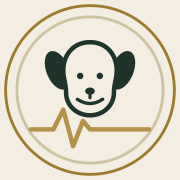
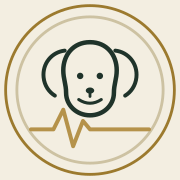
로고를 얇은 선 스타일로 단순화 (귀·코·입 유지, 채움 제거)

diff --git a/index.html b/index.html
@@ -28,17 +28,17 @@
       <svg viewBox="0 0 64 66" role="img" aria-label="시니어독 건강백서 로고">
         <circle cx="32" cy="33" r="30" fill="none" stroke="currentColor" stroke-width="1" style="color:var(--brass)"/>
         <circle cx="32" cy="33" r="26" fill="none" stroke="currentColor" stroke-width="1" style="color:var(--rule)"/>
-        <ellipse cx="20.5" cy="26" rx="4" ry="7.2" fill="var(--pine-strong)" transform="rotate(-22 20.5 26)"/>
-        <ellipse cx="43.5" cy="26" rx="4" ry="7.2" fill="var(--pine-strong)" transform="rotate(22 43.5 26)"/>
+        <path d="M23 19c-4.5 0.5-8 4.5-7.5 9.5 0.3 3 2 5.3 4 6.5" fill="none" stroke="currentColor" stroke-width="1.4" stroke-linecap="round" style="color:var(--pine-strong)"/>
+        <path d="M41 19c4.5 0.5 8 4.5 7.5 9.5-0.3 3-2 5.3-4 6.5" fill="none" stroke="currentColor" stroke-width="1.4" stroke-linecap="round" style="color:var(--pine-strong)"/>
         <path d="M32 16c-6 0-9.5 4.6-9.5 10 0 3 1 5 1 8 0 4.5 3.8 8 8.5 8s8.5-3.5 8.5-8c0-3 1-5 1-8 0-5.4-3.5-10-9.5-10z"
               fill="var(--paper)" stroke="currentColor" stroke-width="1.6" style="color:var(--pine-strong)"/>
         <circle cx="28.5" cy="28" r="1.15" fill="var(--pine-strong)"/>
         <circle cx="35.5" cy="28" r="1.15" fill="var(--pine-strong)"/>
-        <ellipse cx="32" cy="33.4" rx="1.7" ry="1.3" fill="var(--pine-strong)"/>
-        <path d="M32 34.7 L32 35.8" fill="none" stroke="currentColor" stroke-width="1.1" stroke-linecap="round" style="color:var(--pine-strong)"/>
-        <path d="M27.5 36.3 Q32 39.3 36.5 36.3" fill="none" stroke="currentColor" stroke-width="1.2" stroke-linecap="round" stroke-linejoin="round" style="color:var(--pine-strong)"/>
+        <ellipse cx="32" cy="33.2" rx="1.5" ry="1.1" fill="var(--pine-strong)"/>
+        <path d="M32 34.3 L32 35.3" fill="none" stroke="currentColor" stroke-width="1" stroke-linecap="round" style="color:var(--pine-strong)"/>
+        <path d="M28 36.4 Q32 39 36 36.4" fill="none" stroke="currentColor" stroke-width="1.1" stroke-linecap="round" style="color:var(--pine-strong)"/>
         <path d="M11 47 L19 47 L22.5 40 L26 53 L29.5 44 L32 47 L53 47"
-              fill="none" stroke="currentColor" stroke-width="1.6" stroke-linejoin="round" stroke-linecap="round" style="color:var(--brass-bright)"/>
+              fill="none" stroke="currentColor" stroke-width="1.4" stroke-linejoin="round" stroke-linecap="round" style="color:var(--brass-bright)"/>
       </svg>
       <div class="word">시니어독 <b>건강백서</b></div>
     </div>

diff --git a/cost.html b/cost.html
@@ -26,17 +26,17 @@
       <svg viewBox="0 0 64 66" role="img" aria-label="시니어독 건강백서 로고">
         <circle cx="32" cy="33" r="30" fill="none" stroke="currentColor" stroke-width="1" style="color:var(--brass)"/>
         <circle cx="32" cy="33" r="26" fill="none" stroke="currentColor" stroke-width="1" style="color:var(--rule)"/>
-        <ellipse cx="20.5" cy="26" rx="4" ry="7.2" fill="var(--pine-strong)" transform="rotate(-22 20.5 26)"/>
-        <ellipse cx="43.5" cy="26" rx="4" ry="7.2" fill="var(--pine-strong)" transform="rotate(22 43.5 26)"/>
+        <path d="M23 19c-4.5 0.5-8 4.5-7.5 9.5 0.3 3 2 5.3 4 6.5" fill="none" stroke="currentColor" stroke-width="1.4" stroke-linecap="round" style="color:var(--pine-strong)"/>
+        <path d="M41 19c4.5 0.5 8 4.5 7.5 9.5-0.3 3-2 5.3-4 6.5" fill="none" stroke="currentColor" stroke-width="1.4" stroke-linecap="round" style="color:var(--pine-strong)"/>
         <path d="M32 16c-6 0-9.5 4.6-9.5 10 0 3 1 5 1 8 0 4.5 3.8 8 8.5 8s8.5-3.5 8.5-8c0-3 1-5 1-8 0-5.4-3.5-10-9.5-10z"
               fill="var(--paper)" stroke="currentColor" stroke-width="1.6" style="color:var(--pine-strong)"/>
         <circle cx="28.5" cy="28" r="1.15" fill="var(--pine-strong)"/>
         <circle cx="35.5" cy="28" r="1.15" fill="var(--pine-strong)"/>
-        <ellipse cx="32" cy="33.4" rx="1.7" ry="1.3" fill="var(--pine-strong)"/>
-        <path d="M32 34.7 L32 35.8" fill="none" stroke="currentColor" stroke-width="1.1" stroke-linecap="round" style="color:var(--pine-strong)"/>
-        <path d="M27.5 36.3 Q32 39.3 36.5 36.3" fill="none" stroke="currentColor" stroke-width="1.2" stroke-linecap="round" stroke-linejoin="round" style="color:var(--pine-strong)"/>
+        <ellipse cx="32" cy="33.2" rx="1.5" ry="1.1" fill="var(--pine-strong)"/>
+        <path d="M32 34.3 L32 35.3" fill="none" stroke="currentColor" stroke-width="1" stroke-linecap="round" style="color:var(--pine-strong)"/>
+        <path d="M28 36.4 Q32 39 36 36.4" fill="none" stroke="currentColor" stroke-width="1.1" stroke-linecap="round" style="color:var(--pine-strong)"/>
         <path d="M11 47 L19 47 L22.5 40 L26 53 L29.5 44 L32 47 L53 47"
-              fill="none" stroke="currentColor" stroke-width="1.6" stroke-linejoin="round" stroke-linecap="round" style="color:var(--brass-bright)"/>
+              fill="none" stroke="currentColor" stroke-width="1.4" stroke-linejoin="round" stroke-linecap="round" style="color:var(--brass-bright)"/>
       </svg>
       <div class="word">시니어독 <b>건강백서</b></div>
     </a>

diff --git a/gear.html b/gear.html
@@ -26,17 +26,17 @@
       <svg viewBox="0 0 64 66" role="img" aria-label="시니어독 건강백서 로고">
         <circle cx="32" cy="33" r="30" fill="none" stroke="currentColor" stroke-width="1" style="color:var(--brass)"/>
         <circle cx="32" cy="33" r="26" fill="none" stroke="currentColor" stroke-width="1" style="color:var(--rule)"/>
-        <ellipse cx="20.5" cy="26" rx="4" ry="7.2" fill="var(--pine-strong)" transform="rotate(-22 20.5 26)"/>
-        <ellipse cx="43.5" cy="26" rx="4" ry="7.2" fill="var(--pine-strong)" transform="rotate(22 43.5 26)"/>
+        <path d="M23 19c-4.5 0.5-8 4.5-7.5 9.5 0.3 3 2 5.3 4 6.5" fill="none" stroke="currentColor" stroke-width="1.4" stroke-linecap="round" style="color:var(--pine-strong)"/>
+        <path d="M41 19c4.5 0.5 8 4.5 7.5 9.5-0.3 3-2 5.3-4 6.5" fill="none" stroke="currentColor" stroke-width="1.4" stroke-linecap="round" style="color:var(--pine-strong)"/>
         <path d="M32 16c-6 0-9.5 4.6-9.5 10 0 3 1 5 1 8 0 4.5 3.8 8 8.5 8s8.5-3.5 8.5-8c0-3 1-5 1-8 0-5.4-3.5-10-9.5-10z"
               fill="var(--paper)" stroke="currentColor" stroke-width="1.6" style="color:var(--pine-strong)"/>
         <circle cx="28.5" cy="28" r="1.15" fill="var(--pine-strong)"/>
         <circle cx="35.5" cy="28" r="1.15" fill="var(--pine-strong)"/>
-        <ellipse cx="32" cy="33.4" rx="1.7" ry="1.3" fill="var(--pine-strong)"/>
-        <path d="M32 34.7 L32 35.8" fill="none" stroke="currentColor" stroke-width="1.1" stroke-linecap="round" style="color:var(--pine-strong)"/>
-        <path d="M27.5 36.3 Q32 39.3 36.5 36.3" fill="none" stroke="currentColor" stroke-width="1.2" stroke-linecap="round" stroke-linejoin="round" style="color:var(--pine-strong)"/>
+        <ellipse cx="32" cy="33.2" rx="1.5" ry="1.1" fill="var(--pine-strong)"/>
+        <path d="M32 34.3 L32 35.3" fill="none" stroke="currentColor" stroke-width="1" stroke-linecap="round" style="color:var(--pine-strong)"/>
+        <path d="M28 36.4 Q32 39 36 36.4" fill="none" stroke="currentColor" stroke-width="1.1" stroke-linecap="round" style="color:var(--pine-strong)"/>
         <path d="M11 47 L19 47 L22.5 40 L26 53 L29.5 44 L32 47 L53 47"
-              fill="none" stroke="currentColor" stroke-width="1.6" stroke-linejoin="round" stroke-linecap="round" style="color:var(--brass-bright)"/>
+              fill="none" stroke="currentColor" stroke-width="1.4" stroke-linejoin="round" stroke-linecap="round" style="color:var(--brass-bright)"/>
       </svg>
       <div class="word">시니어독 <b>건강백서</b></div>
     </a>

diff --git a/health.html b/health.html
@@ -26,17 +26,17 @@
       <svg viewBox="0 0 64 66" role="img" aria-label="시니어독 건강백서 로고">
         <circle cx="32" cy="33" r="30" fill="none" stroke="currentColor" stroke-width="1" style="color:var(--brass)"/>
         <circle cx="32" cy="33" r="26" fill="none" stroke="currentColor" stroke-width="1" style="color:var(--rule)"/>
-        <ellipse cx="20.5" cy="26" rx="4" ry="7.2" fill="var(--pine-strong)" transform="rotate(-22 20.5 26)"/>
-        <ellipse cx="43.5" cy="26" rx="4" ry="7.2" fill="var(--pine-strong)" transform="rotate(22 43.5 26)"/>
+        <path d="M23 19c-4.5 0.5-8 4.5-7.5 9.5 0.3 3 2 5.3 4 6.5" fill="none" stroke="currentColor" stroke-width="1.4" stroke-linecap="round" style="color:var(--pine-strong)"/>
+        <path d="M41 19c4.5 0.5 8 4.5 7.5 9.5-0.3 3-2 5.3-4 6.5" fill="none" stroke="currentColor" stroke-width="1.4" stroke-linecap="round" style="color:var(--pine-strong)"/>
         <path d="M32 16c-6 0-9.5 4.6-9.5 10 0 3 1 5 1 8 0 4.5 3.8 8 8.5 8s8.5-3.5 8.5-8c0-3 1-5 1-8 0-5.4-3.5-10-9.5-10z"
               fill="var(--paper)" stroke="currentColor" stroke-width="1.6" style="color:var(--pine-strong)"/>
         <circle cx="28.5" cy="28" r="1.15" fill="var(--pine-strong)"/>
         <circle cx="35.5" cy="28" r="1.15" fill="var(--pine-strong)"/>
-        <ellipse cx="32" cy="33.4" rx="1.7" ry="1.3" fill="var(--pine-strong)"/>
-        <path d="M32 34.7 L32 35.8" fill="none" stroke="currentColor" stroke-width="1.1" stroke-linecap="round" style="color:var(--pine-strong)"/>
-        <path d="M27.5 36.3 Q32 39.3 36.5 36.3" fill="none" stroke="currentColor" stroke-width="1.2" stroke-linecap="round" stroke-linejoin="round" style="color:var(--pine-strong)"/>
+        <ellipse cx="32" cy="33.2" rx="1.5" ry="1.1" fill="var(--pine-strong)"/>
+        <path d="M32 34.3 L32 35.3" fill="none" stroke="currentColor" stroke-width="1" stroke-linecap="round" style="color:var(--pine-strong)"/>
+        <path d="M28 36.4 Q32 39 36 36.4" fill="none" stroke="currentColor" stroke-width="1.1" stroke-linecap="round" style="color:var(--pine-strong)"/>
         <path d="M11 47 L19 47 L22.5 40 L26 53 L29.5 44 L32 47 L53 47"
-              fill="none" stroke="currentColor" stroke-width="1.6" stroke-linejoin="round" stroke-linecap="round" style="color:var(--brass-bright)"/>
+              fill="none" stroke="currentColor" stroke-width="1.4" stroke-linejoin="round" stroke-linecap="round" style="color:var(--brass-bright)"/>
       </svg>
       <div class="word">시니어독 <b>건강백서</b></div>
     </a>

diff --git a/log.html b/log.html
@@ -26,17 +26,17 @@
       <svg viewBox="0 0 64 66" role="img" aria-label="시니어독 건강백서 로고">
         <circle cx="32" cy="33" r="30" fill="none" stroke="currentColor" stroke-width="1" style="color:var(--brass)"/>
         <circle cx="32" cy="33" r="26" fill="none" stroke="currentColor" stroke-width="1" style="color:var(--rule)"/>
-        <ellipse cx="20.5" cy="26" rx="4" ry="7.2" fill="var(--pine-strong)" transform="rotate(-22 20.5 26)"/>
-        <ellipse cx="43.5" cy="26" rx="4" ry="7.2" fill="var(--pine-strong)" transform="rotate(22 43.5 26)"/>
+        <path d="M23 19c-4.5 0.5-8 4.5-7.5 9.5 0.3 3 2 5.3 4 6.5" fill="none" stroke="currentColor" stroke-width="1.4" stroke-linecap="round" style="color:var(--pine-strong)"/>
+        <path d="M41 19c4.5 0.5 8 4.5 7.5 9.5-0.3 3-2 5.3-4 6.5" fill="none" stroke="currentColor" stroke-width="1.4" stroke-linecap="round" style="color:var(--pine-strong)"/>
         <path d="M32 16c-6 0-9.5 4.6-9.5 10 0 3 1 5 1 8 0 4.5 3.8 8 8.5 8s8.5-3.5 8.5-8c0-3 1-5 1-8 0-5.4-3.5-10-9.5-10z"
               fill="var(--paper)" stroke="currentColor" stroke-width="1.6" style="color:var(--pine-strong)"/>
         <circle cx="28.5" cy="28" r="1.15" fill="var(--pine-strong)"/>
         <circle cx="35.5" cy="28" r="1.15" fill="var(--pine-strong)"/>
-        <ellipse cx="32" cy="33.4" rx="1.7" ry="1.3" fill="var(--pine-strong)"/>
-        <path d="M32 34.7 L32 35.8" fill="none" stroke="currentColor" stroke-width="1.1" stroke-linecap="round" style="color:var(--pine-strong)"/>
-        <path d="M27.5 36.3 Q32 39.3 36.5 36.3" fill="none" stroke="currentColor" stroke-width="1.2" stroke-linecap="round" stroke-linejoin="round" style="color:var(--pine-strong)"/>
+        <ellipse cx="32" cy="33.2" rx="1.5" ry="1.1" fill="var(--pine-strong)"/>
+        <path d="M32 34.3 L32 35.3" fill="none" stroke="currentColor" stroke-width="1" stroke-linecap="round" style="color:var(--pine-strong)"/>
+        <path d="M28 36.4 Q32 39 36 36.4" fill="none" stroke="currentColor" stroke-width="1.1" stroke-linecap="round" style="color:var(--pine-strong)"/>
         <path d="M11 47 L19 47 L22.5 40 L26 53 L29.5 44 L32 47 L53 47"
-              fill="none" stroke="currentColor" stroke-width="1.6" stroke-linejoin="round" stroke-linecap="round" style="color:var(--brass-bright)"/>
+              fill="none" stroke="currentColor" stroke-width="1.4" stroke-linejoin="round" stroke-linecap="round" style="color:var(--brass-bright)"/>
       </svg>
       <div class="word">시니어독 <b>건강백서</b></div>
     </a>

diff --git a/nutrition.html b/nutrition.html
@@ -26,17 +26,17 @@
       <svg viewBox="0 0 64 66" role="img" aria-label="시니어독 건강백서 로고">
         <circle cx="32" cy="33" r="30" fill="none" stroke="currentColor" stroke-width="1" style="color:var(--brass)"/>
         <circle cx="32" cy="33" r="26" fill="none" stroke="currentColor" stroke-width="1" style="color:var(--rule)"/>
-        <ellipse cx="20.5" cy="26" rx="4" ry="7.2" fill="var(--pine-strong)" transform="rotate(-22 20.5 26)"/>
-        <ellipse cx="43.5" cy="26" rx="4" ry="7.2" fill="var(--pine-strong)" transform="rotate(22 43.5 26)"/>
+        <path d="M23 19c-4.5 0.5-8 4.5-7.5 9.5 0.3 3 2 5.3 4 6.5" fill="none" stroke="currentColor" stroke-width="1.4" stroke-linecap="round" style="color:var(--pine-strong)"/>
+        <path d="M41 19c4.5 0.5 8 4.5 7.5 9.5-0.3 3-2 5.3-4 6.5" fill="none" stroke="currentColor" stroke-width="1.4" stroke-linecap="round" style="color:var(--pine-strong)"/>
         <path d="M32 16c-6 0-9.5 4.6-9.5 10 0 3 1 5 1 8 0 4.5 3.8 8 8.5 8s8.5-3.5 8.5-8c0-3 1-5 1-8 0-5.4-3.5-10-9.5-10z"
               fill="var(--paper)" stroke="currentColor" stroke-width="1.6" style="color:var(--pine-strong)"/>
         <circle cx="28.5" cy="28" r="1.15" fill="var(--pine-strong)"/>
         <circle cx="35.5" cy="28" r="1.15" fill="var(--pine-strong)"/>
-        <ellipse cx="32" cy="33.4" rx="1.7" ry="1.3" fill="var(--pine-strong)"/>
-        <path d="M32 34.7 L32 35.8" fill="none" stroke="currentColor" stroke-width="1.1" stroke-linecap="round" style="color:var(--pine-strong)"/>
-        <path d="M27.5 36.3 Q32 39.3 36.5 36.3" fill="none" stroke="currentColor" stroke-width="1.2" stroke-linecap="round" stroke-linejoin="round" style="color:var(--pine-strong)"/>
+        <ellipse cx="32" cy="33.2" rx="1.5" ry="1.1" fill="var(--pine-strong)"/>
+        <path d="M32 34.3 L32 35.3" fill="none" stroke="currentColor" stroke-width="1" stroke-linecap="round" style="color:var(--pine-strong)"/>
+        <path d="M28 36.4 Q32 39 36 36.4" fill="none" stroke="currentColor" stroke-width="1.1" stroke-linecap="round" style="color:var(--pine-strong)"/>
         <path d="M11 47 L19 47 L22.5 40 L26 53 L29.5 44 L32 47 L53 47"
-              fill="none" stroke="currentColor" stroke-width="1.6" stroke-linejoin="round" stroke-linecap="round" style="color:var(--brass-bright)"/>
+              fill="none" stroke="currentColor" stroke-width="1.4" stroke-linejoin="round" stroke-linecap="round" style="color:var(--brass-bright)"/>
       </svg>
       <div class="word">시니어독 <b>건강백서</b></div>
     </a>

diff --git a/posts/01-소형견-노령견-기준-나이표.html b/posts/01-소형견-노령견-기준-나이표.html
@@ -44,17 +44,17 @@
       <svg viewBox="0 0 64 66" role="img" aria-label="시니어독 건강백서 로고">
         <circle cx="32" cy="33" r="30" fill="none" stroke="currentColor" stroke-width="1" style="color:var(--brass)"/>
         <circle cx="32" cy="33" r="26" fill="none" stroke="currentColor" stroke-width="1" style="color:var(--rule)"/>
-        <ellipse cx="20.5" cy="26" rx="4" ry="7.2" fill="var(--pine-strong)" transform="rotate(-22 20.5 26)"/>
-        <ellipse cx="43.5" cy="26" rx="4" ry="7.2" fill="var(--pine-strong)" transform="rotate(22 43.5 26)"/>
+        <path d="M23 19c-4.5 0.5-8 4.5-7.5 9.5 0.3 3 2 5.3 4 6.5" fill="none" stroke="currentColor" stroke-width="1.4" stroke-linecap="round" style="color:var(--pine-strong)"/>
+        <path d="M41 19c4.5 0.5 8 4.5 7.5 9.5-0.3 3-2 5.3-4 6.5" fill="none" stroke="currentColor" stroke-width="1.4" stroke-linecap="round" style="color:var(--pine-strong)"/>
         <path d="M32 16c-6 0-9.5 4.6-9.5 10 0 3 1 5 1 8 0 4.5 3.8 8 8.5 8s8.5-3.5 8.5-8c0-3 1-5 1-8 0-5.4-3.5-10-9.5-10z"
               fill="var(--paper)" stroke="currentColor" stroke-width="1.6" style="color:var(--pine-strong)"/>
         <circle cx="28.5" cy="28" r="1.15" fill="var(--pine-strong)"/>
         <circle cx="35.5" cy="28" r="1.15" fill="var(--pine-strong)"/>
-        <ellipse cx="32" cy="33.4" rx="1.7" ry="1.3" fill="var(--pine-strong)"/>
-        <path d="M32 34.7 L32 35.8" fill="none" stroke="currentColor" stroke-width="1.1" stroke-linecap="round" style="color:var(--pine-strong)"/>
-        <path d="M27.5 36.3 Q32 39.3 36.5 36.3" fill="none" stroke="currentColor" stroke-width="1.2" stroke-linecap="round" stroke-linejoin="round" style="color:var(--pine-strong)"/>
+        <ellipse cx="32" cy="33.2" rx="1.5" ry="1.1" fill="var(--pine-strong)"/>
+        <path d="M32 34.3 L32 35.3" fill="none" stroke="currentColor" stroke-width="1" stroke-linecap="round" style="color:var(--pine-strong)"/>
+        <path d="M28 36.4 Q32 39 36 36.4" fill="none" stroke="currentColor" stroke-width="1.1" stroke-linecap="round" style="color:var(--pine-strong)"/>
         <path d="M11 47 L19 47 L22.5 40 L26 53 L29.5 44 L32 47 L53 47"
-              fill="none" stroke="currentColor" stroke-width="1.6" stroke-linejoin="round" stroke-linecap="round" style="color:var(--brass-bright)"/>
+              fill="none" stroke="currentColor" stroke-width="1.4" stroke-linejoin="round" stroke-linecap="round" style="color:var(--brass-bright)"/>
       </svg>
       <div class="word">시니어독 <b>건강백서</b></div>
     </a>

diff --git a/posts/02-노령견-건강검진-주기-항목.html b/posts/02-노령견-건강검진-주기-항목.html
@@ -44,17 +44,17 @@
       <svg viewBox="0 0 64 66" role="img" aria-label="시니어독 건강백서 로고">
         <circle cx="32" cy="33" r="30" fill="none" stroke="currentColor" stroke-width="1" style="color:var(--brass)"/>
         <circle cx="32" cy="33" r="26" fill="none" stroke="currentColor" stroke-width="1" style="color:var(--rule)"/>
-        <ellipse cx="20.5" cy="26" rx="4" ry="7.2" fill="var(--pine-strong)" transform="rotate(-22 20.5 26)"/>
-        <ellipse cx="43.5" cy="26" rx="4" ry="7.2" fill="var(--pine-strong)" transform="rotate(22 43.5 26)"/>
+        <path d="M23 19c-4.5 0.5-8 4.5-7.5 9.5 0.3 3 2 5.3 4 6.5" fill="none" stroke="currentColor" stroke-width="1.4" stroke-linecap="round" style="color:var(--pine-strong)"/>
+        <path d="M41 19c4.5 0.5 8 4.5 7.5 9.5-0.3 3-2 5.3-4 6.5" fill="none" stroke="currentColor" stroke-width="1.4" stroke-linecap="round" style="color:var(--pine-strong)"/>
         <path d="M32 16c-6 0-9.5 4.6-9.5 10 0 3 1 5 1 8 0 4.5 3.8 8 8.5 8s8.5-3.5 8.5-8c0-3 1-5 1-8 0-5.4-3.5-10-9.5-10z"
               fill="var(--paper)" stroke="currentColor" stroke-width="1.6" style="color:var(--pine-strong)"/>
         <circle cx="28.5" cy="28" r="1.15" fill="var(--pine-strong)"/>
         <circle cx="35.5" cy="28" r="1.15" fill="var(--pine-strong)"/>
-        <ellipse cx="32" cy="33.4" rx="1.7" ry="1.3" fill="var(--pine-strong)"/>
-        <path d="M32 34.7 L32 35.8" fill="none" stroke="currentColor" stroke-width="1.1" stroke-linecap="round" style="color:var(--pine-strong)"/>
-        <path d="M27.5 36.3 Q32 39.3 36.5 36.3" fill="none" stroke="currentColor" stroke-width="1.2" stroke-linecap="round" stroke-linejoin="round" style="color:var(--pine-strong)"/>
+        <ellipse cx="32" cy="33.2" rx="1.5" ry="1.1" fill="var(--pine-strong)"/>
+        <path d="M32 34.3 L32 35.3" fill="none" stroke="currentColor" stroke-width="1" stroke-linecap="round" style="color:var(--pine-strong)"/>
+        <path d="M28 36.4 Q32 39 36 36.4" fill="none" stroke="currentColor" stroke-width="1.1" stroke-linecap="round" style="color:var(--pine-strong)"/>
         <path d="M11 47 L19 47 L22.5 40 L26 53 L29.5 44 L32 47 L53 47"
-              fill="none" stroke="currentColor" stroke-width="1.6" stroke-linejoin="round" stroke-linecap="round" style="color:var(--brass-bright)"/>
+              fill="none" stroke="currentColor" stroke-width="1.4" stroke-linejoin="round" stroke-linecap="round" style="color:var(--brass-bright)"/>
       </svg>
       <div class="word">시니어독 <b>건강백서</b></div>
     </a>

diff --git a/posts/03-노령견-계단-미끄럼방지-용품-비교.html b/posts/03-노령견-계단-미끄럼방지-용품-비교.html
@@ -44,17 +44,17 @@
       <svg viewBox="0 0 64 66" role="img" aria-label="시니어독 건강백서 로고">
         <circle cx="32" cy="33" r="30" fill="none" stroke="currentColor" stroke-width="1" style="color:var(--brass)"/>
         <circle cx="32" cy="33" r="26" fill="none" stroke="currentColor" stroke-width="1" style="color:var(--rule)"/>
-        <ellipse cx="20.5" cy="26" rx="4" ry="7.2" fill="var(--pine-strong)" transform="rotate(-22 20.5 26)"/>
-        <ellipse cx="43.5" cy="26" rx="4" ry="7.2" fill="var(--pine-strong)" transform="rotate(22 43.5 26)"/>
+        <path d="M23 19c-4.5 0.5-8 4.5-7.5 9.5 0.3 3 2 5.3 4 6.5" fill="none" stroke="currentColor" stroke-width="1.4" stroke-linecap="round" style="color:var(--pine-strong)"/>
+        <path d="M41 19c4.5 0.5 8 4.5 7.5 9.5-0.3 3-2 5.3-4 6.5" fill="none" stroke="currentColor" stroke-width="1.4" stroke-linecap="round" style="color:var(--pine-strong)"/>
         <path d="M32 16c-6 0-9.5 4.6-9.5 10 0 3 1 5 1 8 0 4.5 3.8 8 8.5 8s8.5-3.5 8.5-8c0-3 1-5 1-8 0-5.4-3.5-10-9.5-10z"
               fill="var(--paper)" stroke="currentColor" stroke-width="1.6" style="color:var(--pine-strong)"/>
         <circle cx="28.5" cy="28" r="1.15" fill="var(--pine-strong)"/>
         <circle cx="35.5" cy="28" r="1.15" fill="var(--pine-strong)"/>
-        <ellipse cx="32" cy="33.4" rx="1.7" ry="1.3" fill="var(--pine-strong)"/>
-        <path d="M32 34.7 L32 35.8" fill="none" stroke="currentColor" stroke-width="1.1" stroke-linecap="round" style="color:var(--pine-strong)"/>
-        <path d="M27.5 36.3 Q32 39.3 36.5 36.3" fill="none" stroke="currentColor" stroke-width="1.2" stroke-linecap="round" stroke-linejoin="round" style="color:var(--pine-strong)"/>
+        <ellipse cx="32" cy="33.2" rx="1.5" ry="1.1" fill="var(--pine-strong)"/>
+        <path d="M32 34.3 L32 35.3" fill="none" stroke="currentColor" stroke-width="1" stroke-linecap="round" style="color:var(--pine-strong)"/>
+        <path d="M28 36.4 Q32 39 36 36.4" fill="none" stroke="currentColor" stroke-width="1.1" stroke-linecap="round" style="color:var(--pine-strong)"/>
         <path d="M11 47 L19 47 L22.5 40 L26 53 L29.5 44 L32 47 L53 47"
-              fill="none" stroke="currentColor" stroke-width="1.6" stroke-linejoin="round" stroke-linecap="round" style="color:var(--brass-bright)"/>
+              fill="none" stroke="currentColor" stroke-width="1.4" stroke-linejoin="round" stroke-linecap="round" style="color:var(--brass-bright)"/>
       </svg>
       <div class="word">시니어독 <b>건강백서</b></div>
     </a>

diff --git a/posts/04-노령견-치매-인지기능장애.html b/posts/04-노령견-치매-인지기능장애.html
@@ -44,17 +44,17 @@
       <svg viewBox="0 0 64 66" role="img" aria-label="시니어독 건강백서 로고">
         <circle cx="32" cy="33" r="30" fill="none" stroke="currentColor" stroke-width="1" style="color:var(--brass)"/>
         <circle cx="32" cy="33" r="26" fill="none" stroke="currentColor" stroke-width="1" style="color:var(--rule)"/>
-        <ellipse cx="20.5" cy="26" rx="4" ry="7.2" fill="var(--pine-strong)" transform="rotate(-22 20.5 26)"/>
-        <ellipse cx="43.5" cy="26" rx="4" ry="7.2" fill="var(--pine-strong)" transform="rotate(22 43.5 26)"/>
+        <path d="M23 19c-4.5 0.5-8 4.5-7.5 9.5 0.3 3 2 5.3 4 6.5" fill="none" stroke="currentColor" stroke-width="1.4" stroke-linecap="round" style="color:var(--pine-strong)"/>
+        <path d="M41 19c4.5 0.5 8 4.5 7.5 9.5-0.3 3-2 5.3-4 6.5" fill="none" stroke="currentColor" stroke-width="1.4" stroke-linecap="round" style="color:var(--pine-strong)"/>
         <path d="M32 16c-6 0-9.5 4.6-9.5 10 0 3 1 5 1 8 0 4.5 3.8 8 8.5 8s8.5-3.5 8.5-8c0-3 1-5 1-8 0-5.4-3.5-10-9.5-10z"
               fill="var(--paper)" stroke="currentColor" stroke-width="1.6" style="color:var(--pine-strong)"/>
         <circle cx="28.5" cy="28" r="1.15" fill="var(--pine-strong)"/>
         <circle cx="35.5" cy="28" r="1.15" fill="var(--pine-strong)"/>
-        <ellipse cx="32" cy="33.4" rx="1.7" ry="1.3" fill="var(--pine-strong)"/>
-        <path d="M32 34.7 L32 35.8" fill="none" stroke="currentColor" stroke-width="1.1" stroke-linecap="round" style="color:var(--pine-strong)"/>
-        <path d="M27.5 36.3 Q32 39.3 36.5 36.3" fill="none" stroke="currentColor" stroke-width="1.2" stroke-linecap="round" stroke-linejoin="round" style="color:var(--pine-strong)"/>
+        <ellipse cx="32" cy="33.2" rx="1.5" ry="1.1" fill="var(--pine-strong)"/>
+        <path d="M32 34.3 L32 35.3" fill="none" stroke="currentColor" stroke-width="1" stroke-linecap="round" style="color:var(--pine-strong)"/>
+        <path d="M28 36.4 Q32 39 36 36.4" fill="none" stroke="currentColor" stroke-width="1.1" stroke-linecap="round" style="color:var(--pine-strong)"/>
         <path d="M11 47 L19 47 L22.5 40 L26 53 L29.5 44 L32 47 L53 47"
-              fill="none" stroke="currentColor" stroke-width="1.6" stroke-linejoin="round" stroke-linecap="round" style="color:var(--brass-bright)"/>
+              fill="none" stroke="currentColor" stroke-width="1.4" stroke-linejoin="round" stroke-linecap="round" style="color:var(--brass-bright)"/>
       </svg>
       <div class="word">시니어독 <b>건강백서</b></div>
     </a>

diff --git a/posts/05-노령견-사료-전환-가이드.html b/posts/05-노령견-사료-전환-가이드.html
@@ -44,17 +44,17 @@
       <svg viewBox="0 0 64 66" role="img" aria-label="시니어독 건강백서 로고">
         <circle cx="32" cy="33" r="30" fill="none" stroke="currentColor" stroke-width="1" style="color:var(--brass)"/>
         <circle cx="32" cy="33" r="26" fill="none" stroke="currentColor" stroke-width="1" style="color:var(--rule)"/>
-        <ellipse cx="20.5" cy="26" rx="4" ry="7.2" fill="var(--pine-strong)" transform="rotate(-22 20.5 26)"/>
-        <ellipse cx="43.5" cy="26" rx="4" ry="7.2" fill="var(--pine-strong)" transform="rotate(22 43.5 26)"/>
+        <path d="M23 19c-4.5 0.5-8 4.5-7.5 9.5 0.3 3 2 5.3 4 6.5" fill="none" stroke="currentColor" stroke-width="1.4" stroke-linecap="round" style="color:var(--pine-strong)"/>
+        <path d="M41 19c4.5 0.5 8 4.5 7.5 9.5-0.3 3-2 5.3-4 6.5" fill="none" stroke="currentColor" stroke-width="1.4" stroke-linecap="round" style="color:var(--pine-strong)"/>
         <path d="M32 16c-6 0-9.5 4.6-9.5 10 0 3 1 5 1 8 0 4.5 3.8 8 8.5 8s8.5-3.5 8.5-8c0-3 1-5 1-8 0-5.4-3.5-10-9.5-10z"
               fill="var(--paper)" stroke="currentColor" stroke-width="1.6" style="color:var(--pine-strong)"/>
         <circle cx="28.5" cy="28" r="1.15" fill="var(--pine-strong)"/>
         <circle cx="35.5" cy="28" r="1.15" fill="var(--pine-strong)"/>
-        <ellipse cx="32" cy="33.4" rx="1.7" ry="1.3" fill="var(--pine-strong)"/>
-        <path d="M32 34.7 L32 35.8" fill="none" stroke="currentColor" stroke-width="1.1" stroke-linecap="round" style="color:var(--pine-strong)"/>
-        <path d="M27.5 36.3 Q32 39.3 36.5 36.3" fill="none" stroke="currentColor" stroke-width="1.2" stroke-linecap="round" stroke-linejoin="round" style="color:var(--pine-strong)"/>
+        <ellipse cx="32" cy="33.2" rx="1.5" ry="1.1" fill="var(--pine-strong)"/>
+        <path d="M32 34.3 L32 35.3" fill="none" stroke="currentColor" stroke-width="1" stroke-linecap="round" style="color:var(--pine-strong)"/>
+        <path d="M28 36.4 Q32 39 36 36.4" fill="none" stroke="currentColor" stroke-width="1.1" stroke-linecap="round" style="color:var(--pine-strong)"/>
         <path d="M11 47 L19 47 L22.5 40 L26 53 L29.5 44 L32 47 L53 47"
-              fill="none" stroke="currentColor" stroke-width="1.6" stroke-linejoin="round" stroke-linecap="round" style="color:var(--brass-bright)"/>
+              fill="none" stroke="currentColor" stroke-width="1.4" stroke-linejoin="round" stroke-linecap="round" style="color:var(--brass-bright)"/>
       </svg>
       <div class="word">시니어독 <b>건강백서</b></div>
     </a>
